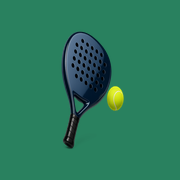
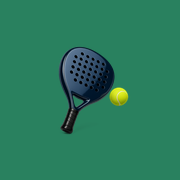
Fix icoon: beeldverhouding racket bewaard (3:2)

Changed region(s): [[0.3056, 0.1667, 0.7222, 0.8333]]

diff --git a/maak_icons.py b/maak_icons.py
@@ -1,35 +1,25 @@
 from PIL import Image
-import os
 
-GROEN = (41, 129, 95)   # #29815f
+GROEN = (41, 129, 95)  # #29815f
 SRC   = "Padel racket.png"
-MATEN = [192, 512]
 
 racket = Image.open(SRC).convert("RGBA")
+r_w, r_h = racket.size
 
-for maat in MATEN:
+def maak_icon(maat, bestand):
     canvas = Image.new("RGBA", (maat, maat), GROEN + (255,))
-
-    # Racket schalen naar 72% van het icoon, gecentreerd
-    schaal  = int(maat * 0.72)
-    racket_geschaald = racket.resize((schaal, schaal), Image.LANCZOS)
-
-    # Centreren
-    x = (maat - schaal) // 2
-    y = (maat - schaal) // 2
-    canvas.paste(racket_geschaald, (x, y), racket_geschaald)
-
-    bestand = f"icon-{maat}.png"
+    doel_w = int(maat * 0.80)
+    doel_h = int(doel_w * r_h / r_w)
+    if doel_h > int(maat * 0.80):
+        doel_h = int(maat * 0.80)
+        doel_w = int(doel_h * r_w / r_h)
+    geschaald = racket.resize((doel_w, doel_h), Image.LANCZOS)
+    x = (maat - doel_w) // 2
+    y = (maat - doel_h) // 2
+    canvas.paste(geschaald, (x, y), geschaald)
     canvas.convert("RGB").save(bestand, "PNG", optimize=True)
-    print(f"Aangemaakt: {bestand}")
+    print(f"{bestand}: {doel_w}x{doel_h} in {maat}x{maat}")
 
-# Apple touch icon (180x180)
-maat   = 180
-canvas = Image.new("RGBA", (maat, maat), GROEN + (255,))
-schaal = int(maat * 0.72)
-racket_geschaald = racket.resize((schaal, schaal), Image.LANCZOS)
-x = (maat - schaal) // 2
-y = (maat - schaal) // 2
-canvas.paste(racket_geschaald, (x, y), racket_geschaald)
-canvas.convert("RGB").save("apple-touch-icon.png", "PNG", optimize=True)
-print("Aangemaakt: apple-touch-icon.png")
+maak_icon(192, "icon-192.png")
+maak_icon(512, "icon-512.png")
+maak_icon(180, "apple-touch-icon.png")
